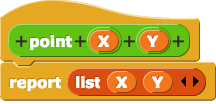
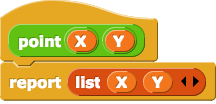
U3L2p3 Addressing BH Feedback

Changed region(s): [[0.0556, 0.0288, 0.9444, 0.6058]]

diff --git a/cur/programming/3-lists/2-nesting-lists/3-data-types.html b/cur/programming/3-lists/2-nesting-lists/3-data-types.html
@@ -9,22 +9,33 @@
     <body>
         <h2>Data Types</h2>
         
-        <div class="todo">Talk to BH about constructors and selectors vs. datatypes.</div>
         <div class="todo">
             <ul>
-                <li>Paul or Brian, please review the following preface on data types. --MF</li>
-                <li>BH: Variables do not have types. <em>Data</em> have types. Any variable can hold any datum, regardless of type. Also, Snap<em>!</em> is not Scratch -- lists are not comparable to variables; they're comparable to numbers or procedures.</li>
+                <li>Paul or Brian, please review the following preface on data types. --MF
+                	<ul>
+                    	<li>BH: Variables do not have types. <em>Data</em> have types. Any variable can hold any datum, regardless of type. Also, Snap<em>!</em> is not Scratch -- lists are not comparable to variables; they're comparable to numbers or procedures.</li>
+                    </ul>
+                </li>
+                <li>Brian, We need to talk to BH about constructors and selectors vs. datatypes. --MF</li>
             </ul>
         </div>
         
-		<img class="imageRight" src="/bjc-r/img/3-lists/point.png" alt="point = list" title="point = list"/>
 <!--        <p>A <strong>data type</strong> is a label that specifies what type of data a variable can hold. In some programming languages, there are different data types for numbers than for words&mdash;or even for different kinds of numbers (for instance, integers vs. decimals). In Snap<em>!</em>, there are variables (which each hold one piece of data that can be either a number or text) and lists (which hold multiple pieces of data&mdash;numbers or text). We can also create our own data types to help clarify our code.</p>  -->
-<p> <br />A <strong>data type</strong> is, just as the name suggests, what <em>kind</em> of data something is.  &quot;Noun phrase&quot; is a data type; so is &quot;phrase&quot; (which also includes verb phrases and prepositional phrases).  &quot;Person&quot; could be a data type in a Contacts app. <br />&nbsp;</p>
 		<img class="imageRight" src="/bjc-r/img/3-lists/isa-menu.png" alt="primitive types" title="primitive types"/>
-<p>The <strong>abstract</strong> data types in the last paragraph exist only in the mind of the programmer. Other <strong>primitive</strong> data types are built into each programming language.  The primitive types in Snap<em>!</em> are number, text string, Boolean, list, command, reporter, and predicate.  (We haven't used the last three as data types yet.)  You can get a reminder of Snap<em>!</em>'s primitive types from the pulldown menu in the <code>is () a ()?</code> block.
+		<p>A <strong>data type</strong> is, just as the name suggests, what <em>kind</em> of data something is.</p>
+		<p>Primitive data types are built into each programming language.  The primitive types in Snap<em>!</em> are <em>number</em>, <em>text string</em>, <em>Boolean</em>, <em>list</em>, <em>command</em>, <em>reporter</em>, and <em>predicate</em> (but we haven't used the last three as data types yet.)  You can get a reminder of Snap<em>!</em>'s primitive types from the pulldown menu in the <code>is () a ()?</code> block.</p>
+        <p>
+            <strong>Abstract data types</strong> (or ADTs) exist only in the mind of the programmer. For example: 
+            <ul>
+                <li>Your reporter <var>noun phrase</var> (in <a href="http://localhost/bjc-r/cur/programming/3-lists/1-introduction-to-lists/3-join-join-words.html?topic=nyc_bjc%2F3-lists.topic&course=bjc4nyc_2015-2016.html&novideo&noassignment">Lab 1</a>) was a data type  that joined 3 text strings from various lists.</li>
+                <li>Also <var>prepositional phrase</var> (in <a href="http://localhost/bjc-r/cur/programming/3-lists/1-introduction-to-lists/3-join-join-words.html?topic=nyc_bjc%2F3-lists.topic&course=bjc4nyc_2015-2016.html&novideo&noassignment">Lab 1</a>) was a data type that joined a text string and a <var>noun phrase</var>.</li>
+                <li>You could create a <var>person</var> data type for your Contacts List app.</li>
+                <li>You might want a <var>student</var> data type if you were collecting data on your classmates for a yearbook. </li>
+            </ul>
+        </p>
 
-<div class="dialogue"> <a name="point" class="anchor">&nbsp;</a>
-  <div class="stagedir">Gamal joins Betsy and Alphie's <a href="/bjc-r/cur/programming/3-lists/2-nesting-lists/5-the-for-each-block.html?topic=nyc_bjc%2F3-lists.topic&course=bjc4nyc_2015-2016.html&novideo&noassignment">discussion about using a list of coordinates to make a drawing of a letter</a>.</div>
+        <div class="dialogue"> <a name="point" class="anchor">&nbsp;</a>
+        	<div class="stagedir">Gamal joins Betsy and Alphie's <a href="/bjc-r/cur/programming/3-lists/2-nesting-lists/5-the-for-each-block.html?topic=nyc_bjc%2F3-lists.topic&course=bjc4nyc_2015-2016.html&novideo&noassignment">discussion about using a list of coordinates to make a drawing of a letter</a>.</div>
             <img class="imageRight" src="/bjc-r/img/3-lists/drawA.gif" alt="sprite drawing letter A by going to each set of coordinates" title="sprite drawing letter A by going to each set of coordinates" />
             <div><span>Gamal:</span> I think you had trouble finishing that last script because those <code>item of</code> blocks get confusing with lists inside lists.</div>
             <div><span>Betsy:</span> Yeah, the expressions like <img style="padding: 0px;" src="/bjc-r/img/3-lists/item-2-of-item-1-of-A.png" alt="item (2) of (item (1) of (A))" title="item (2) of (item (1) of (A))" /> get confusing fast!</div>
@@ -34,8 +45,12 @@
                 Gamal has built this block: 
                 <img src="/bjc-r/img/3-lists/point.png" alt="point = list" title="point = list"/>
             </div>
-			<div class="todo"><ul><li>I replaced this image (above) and removed the link. The <a href="http://bjc.edc.org/bjc-r/cur/programming/3-lists/1-introduction-to-lists/4-draw-shape.html?topic=nyc_bjc%2F3-lists.topic&course=bjc4nyc_2015-2016.html&novideo&noassignment">prior image</a> didn't make sense and the link did not include this block. --MF</li>
-            <li>BH: "Didn't make sense"?  The number signs are there because Gamal has declared his inputs to be of type number.  And we're supposed to make block definition pictures with "Plain prototype labels" turned on.</li></ul> </div>
+			<div class="todo"><ul><li><!--I replaced this image (above) and removed the link. -->The <a href="http://bjc.edc.org/bjc-r/cur/programming/3-lists/1-introduction-to-lists/4-draw-shape.html?topic=nyc_bjc%2F3-lists.topic&course=bjc4nyc_2015-2016.html&novideo&noassignment">prior image</a> didn't make sense<!-- and the link did not include this block-->. --MF
+                <ul>
+                    <li>BH: "Didn't make sense"?  The number signs are there because Gamal has declared his inputs to be of type number.  <!--And we're supposed to make block definition pictures with "Plain prototype labels" turned on.--></li>
+                    <li>Have we introduced number-type inputs? --MF</li>
+                </ul>
+            </li></ul></div>
             <div><span>Betsy:</span> That block is trivial; it isn't going to make the rest of the program any shorter.</div>
             <div><span>Gamal:</span> But it is going to make it <em>easier to think about</em>. Now, a list of points will actually look like a list of points:</div>
             <div class="stagedir"><img src="/bjc-r/img/3-lists/list-of-points.png" alt="letter A as list of points" title="letter A as list of points" /></div>
@@ -50,14 +65,13 @@
         
         <div class="forYouToDo" id="first">
             <ol>
-                <img class="imageRight" src="/bjc-r/img/icons/save-mini.png" alt="Save Your Work" title="Save Your Work" />
                 <li>Improve your "U3L1-DrawShape" project from <a href="/bjc-r/cur/programming/3-lists/2-nesting-lists/5-the-for-each-block.html?topic=nyc_bjc%2F3-lists.topic&course=bjc4nyc_2015-2016.html&novideo&noassignment">the previous page</a> using Gamal's and Betsy's ideas.</li>
                 <li>
                 	Make a general <img class="inline" src="/bjc-r/img/3-lists/draw_shape_block.png" alt="draw shape ()" title="draw shape ()" /> block that draws <em>any</em> shape based on a list of coordinates.<br />
                 	Notice that the input slot <img class="inline" src="/bjc-r/img/3-lists/list_input_slot.png" alt="rectangle with two smaller orange rectangles inside" title="rectangle with two smaller orange rectangles inside" /> shows that a <em>list</em> value is expected. This animation shows you how to specify the list input type:<br /> 
                     <img src="/bjc-r/img/3-lists/draw_shape_list_input.gif" alt="script with for each (item) of (A) {glide 1 secs to x:(blank) y:(blank)} then glide to (0, 0)" title="script with for each (item) of (A) {glide 1 secs to x:(blank) y:(blank)} then glide to (0, 0)" />
+	                <img class="imageRight" src="/bjc-r/img/icons/save-mini.png" alt="Save Your Work" title="Save Your Work" />
                 </li>
-            	<img class="imageRight" src="/bjc-r/img/icons/save-now.png" alt="Now Is a Good Time to Save" title="Now Is a Good Time to Save" />
             </ol>
         </div>
         
@@ -69,10 +83,8 @@
 	                <div class="sidenoteBig">Notice the use of abstraction. Representing the message &quot;HI&quot; as <img src="/bjc-r/img/3-lists/list-h-i.png" alt="list {A, B, C}" title="list {A, B, C}" /> hides all the complexity of the lists of coordinates used to draw the shapes.</div>
                 	<img class="indent" src="/bjc-r/img/3-lists/hi.gif" alt="animation that shows drawing H then drawing I" title="animation that shows drawing H then drawing I" />
                 </li>
-            	<img class="imageRight" src="/bjc-r/img/icons/save-now.png" alt="Now Is a Good Time to Save" title="Now Is a Good Time to Save" />
         	</ol>
         </div>
-        <br clear="all" />
         
 
    </body>
